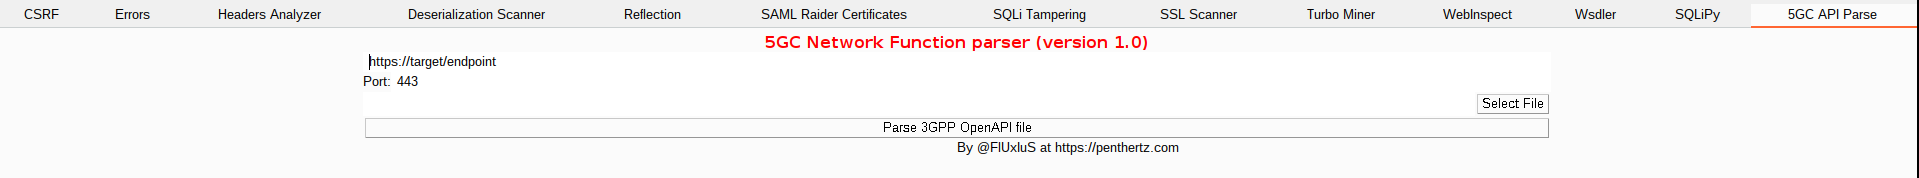
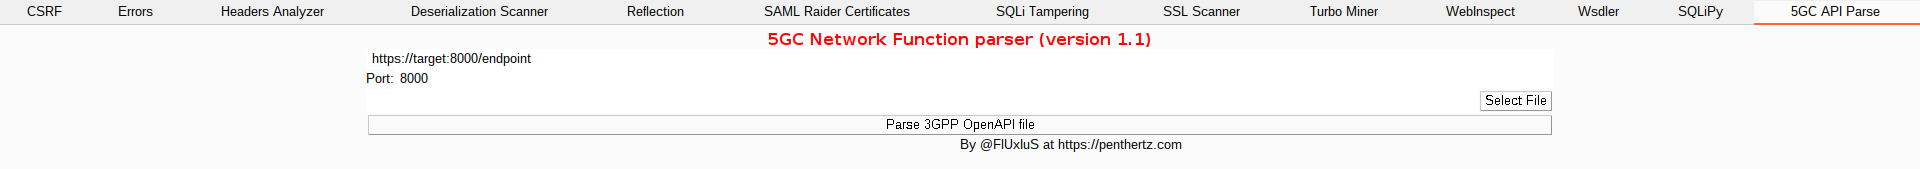
Fixing headers errors + updating pictures

diff --git a/5GC_API_parse.py b/5GC_API_parse.py
@@ -60,7 +60,7 @@ class BurpExtender(IBurpExtender, ITab, IMessageEditorController, IContextMenuFa
 
 
         # YAML file label
-        toptextLabel = swing.JLabel('5GC Network Function parser (version 1.0)')
+        toptextLabel = swing.JLabel('5GC Network Function parser (version 1.1)')
         boxHorizontal.add(toptextLabel)
         author = swing.JLabel('By @FlUxIuS at https://penthertz.com')
         
@@ -71,7 +71,7 @@ class BurpExtender(IBurpExtender, ITab, IMessageEditorController, IContextMenuFa
         # URL text area
         self.textURL = swing.JTextArea('', 1, 100)
         self.textURL.setLineWrap(True)
-        self.textURL.setText('https://target/endpoint')
+        self.textURL.setText('https://target:8000/endpoint')
         self.textAreaFile = swing.JTextArea('', 1, 100)
         self.textAreaFile.setLineWrap(True)
         buttonFile = Button('Select File', actionPerformed=self.selectFile)
@@ -85,7 +85,7 @@ class BurpExtender(IBurpExtender, ITab, IMessageEditorController, IContextMenuFa
         boxHorizontalPort.add(portLabel)
         self.textPort = swing.JTextArea('', 1, 10)
         self.textPort.setLineWrap(True)
-        self.textPort.setText('443')           
+        self.textPort.setText('8000')           
         boxHorizontalPort.add(self.textPort)
 
         boxVertical.add(self.textURL)
@@ -143,6 +143,7 @@ class BurpExtender(IBurpExtender, ITab, IMessageEditorController, IContextMenuFa
         yamlfile = self.textAreaFile.getText()
         oapi = OpenAPI3GPP(yamlfile)
         paths = oapi.listpaths()
+        parsedUrl = urlparse(self.textURL.getText())
         for path in paths:
             verbs = oapi.getEndPointVerbs(path)
             for verb in verbs:
@@ -150,7 +151,7 @@ class BurpExtender(IBurpExtender, ITab, IMessageEditorController, IContextMenuFa
                 desc = oapi.getEndPointSummary(path, verb)
                 params = oapi.dumpParameters(path, verb)
                 reqpath = urlparse(self.textURL.getText()).path
-                toreq = oapi.buildRequest(path, verb, reqpath)
+                toreq = oapi.buildRequest(path, verb, reqpath, parsedUrl.netloc)
                 body = oapi.dumpRequestBody(path, verb)
 
                 #if len(body) == 0:
@@ -160,12 +161,13 @@ class BurpExtender(IBurpExtender, ITab, IMessageEditorController, IContextMenuFa
 
     def sendToRepeater(self, event):
         isHttps = False
-        if urlparse(self.textURL.getText()).scheme.lower() in "https":
+        parsedUrl = urlparse(self.textURL.getText())
+        if parsedUrl.scheme.lower() == "https":
             isHttps = True
 
         for name, b in self.editboxes:
             self.callbacks.sendToRepeater(
-                urlparse(self.textURL.getText()).netloc,
+                parsedUrl.netloc.split(':')[0],
                 int(self.textPort.getText()),
                 isHttps,
                 b.getMessage(),
@@ -310,19 +312,29 @@ class OpenAPI3GPP(object):
 
 
     # default field values
-    field_table = { 'Content-Encoding' : 'application/json',
-                    'Accept-Encoding' : 'application/json',
+    field_table = { 'Content-Encoding' : 'gzip, deflate',
+                    'Accept-Encoding' : 'gzip, deflate',
+                    'User-Agent' : 'Mozilla/5.0 (X11; Ubuntu; Linux x86_64; rv:90.0) Gecko/20100101 Firefox/90.0',
+                    'Accept' : 'application/json',
     }
 
 
-    def buildRequest(self, path, verb, reqpath):
+    def buildDefaultHeaders(self, netloc):
+        string = ""
+        string += 'Host: ' + netloc + "\r\n"
+        string += 'User-Agent: ' + self.field_table['User-Agent'] + "\r\n"
+        string += 'Accept: ' + self.field_table['Accept'] + "\r\n"
+        return string
+
+
+    def buildRequest(self, path, verb, reqpath, netloc):
         """
             Builds web request from YAML file
         """
         parameters = self.getParameters(path, verb)
         reqpath = self.yamlinst['servers'][0]['url'].format(apiRoot=reqpath) + path
         extrpath = ""
-        headers = ""
+        headers = self.buildDefaultHeaders(netloc)
         body = "\r\n"
         reqstring = "{verb} {path} HTTP/1.1\r\n"
         for param in parameters:
